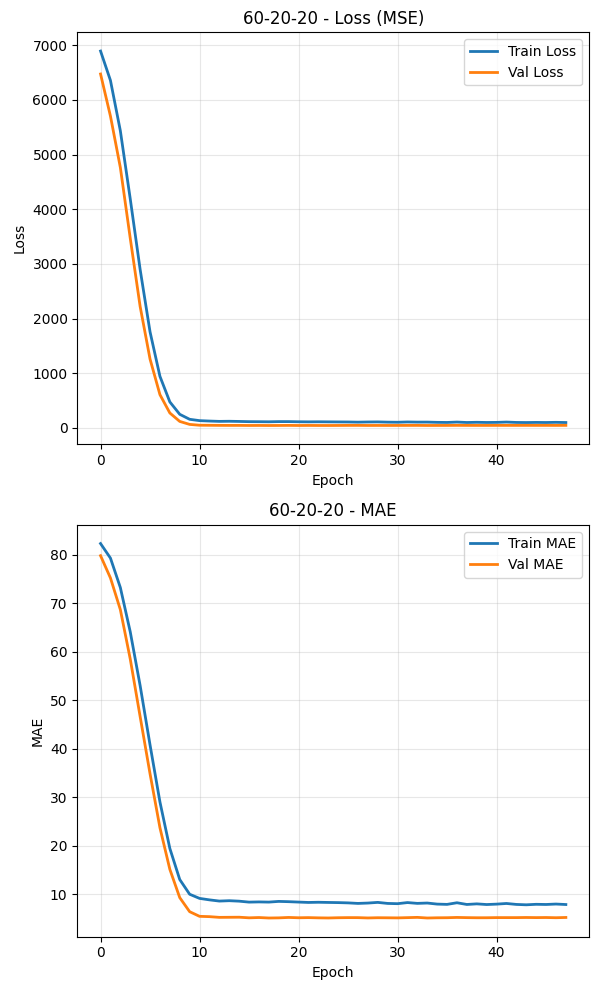
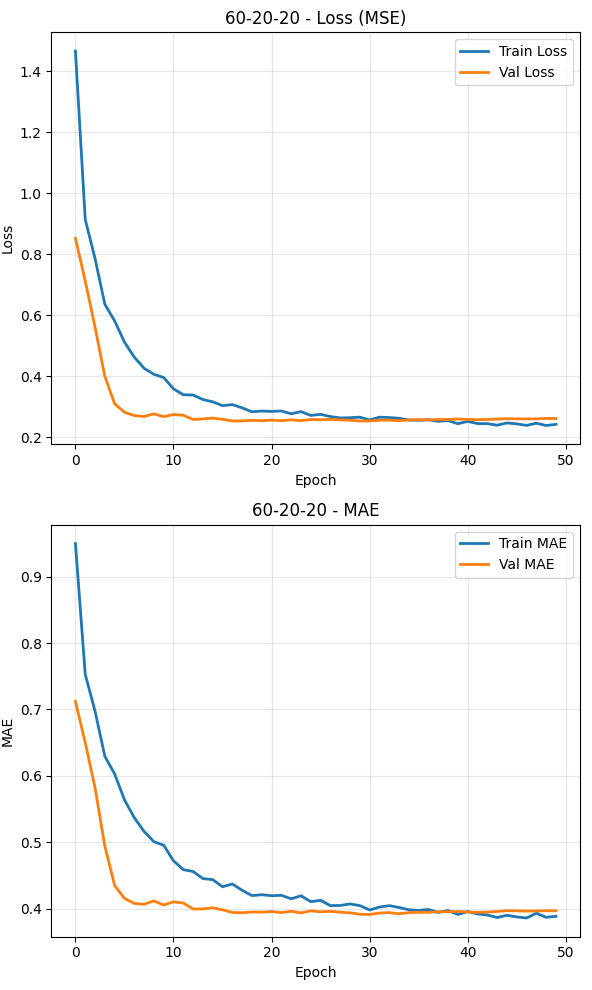
model dnn sudah tunning

diff --git a/final_score_prediction/lib/infoDataset.dart b/final_score_prediction/lib/infoDataset.dart
@@ -270,7 +270,7 @@ class InfoPage extends StatelessWidget {
             ),
             const SizedBox(height: 16),
 
-            // ── CARD 5: MODEL EVALUATION METRICS ──
+            // ── CARD 5: MODEL EVALUATION METRICS (UPDATED) ──
             Card(
               color: Colors.white,
               elevation: 0,
@@ -306,9 +306,10 @@ class InfoPage extends StatelessWidget {
                       ],
                     ),
                     const Divider(height: 24),
-                    _buildInfoRow('R² (Coefficient of Determination)', '0.7480'),
-                    _buildInfoRow('MAE (Mean Absolute Error)', '5.0575'),
-                    _buildInfoRow('RMSE (Root Mean Squared Error)', '6.3799'),
+                    _buildInfoRow('R² (Coefficient of Determination)', '0.7566'),
+                    _buildInfoRow('MAE (Mean Absolute Error)', '4.8983'),
+                    _buildInfoRow('MSE (Mean Squared Error)', '39.3036'),
+                    _buildInfoRow('RMSE (Root Mean Squared Error)', '6.2693'),
                     const SizedBox(height: 8),
                     Container(
                       padding: const EdgeInsets.all(10),
@@ -322,7 +323,7 @@ class InfoPage extends StatelessWidget {
                           const SizedBox(width: 8),
                           Expanded(
                             child: Text(
-                              'R² = 0.7480 means the model explains 74.8% of the variance in the data.',
+                              'R² = 0.7566 means the model explains 75.66% of the variance in the data.',
                               style: TextStyle(
                                 fontSize: 11,
                                 color: Colors.grey[700],